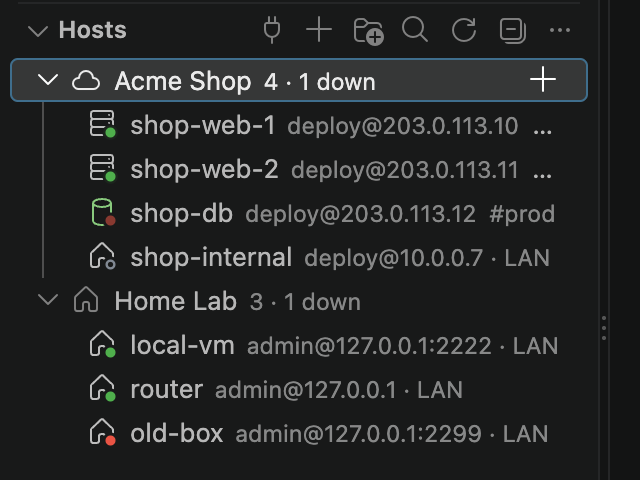
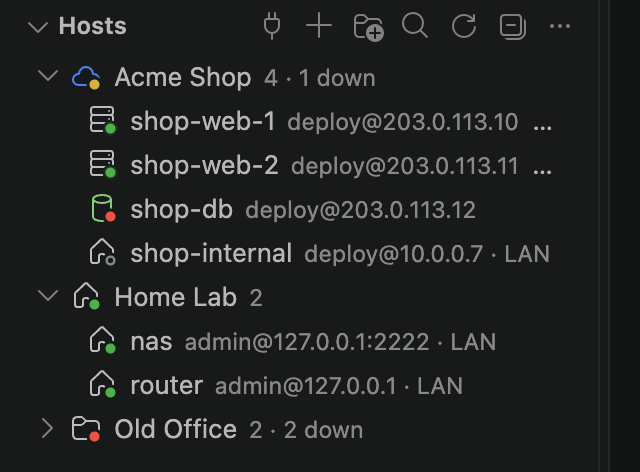
README: status screenshot with the folder dots

diff --git a/README.md b/README.md
@@ -170,7 +170,7 @@ always runs on your computer, also from a window that is connected to a remote.
 
 ## Server status: up or down
 
-<img src="images/status.png" width="320" align="right" alt="Host icons with a small green, red or grey status dot, and folders that count the hosts that are down">
+<img src="images/status.png" width="320" align="right" alt="Host and folder icons with a small status dot: green for up, red for down, yellow for a folder with both">
 
 A small dot on every host's icon shows whether the server answers right now: green = up,
 red = down, a grey ring = not checked. The green dot pulses softly and the red one blinks (switch
